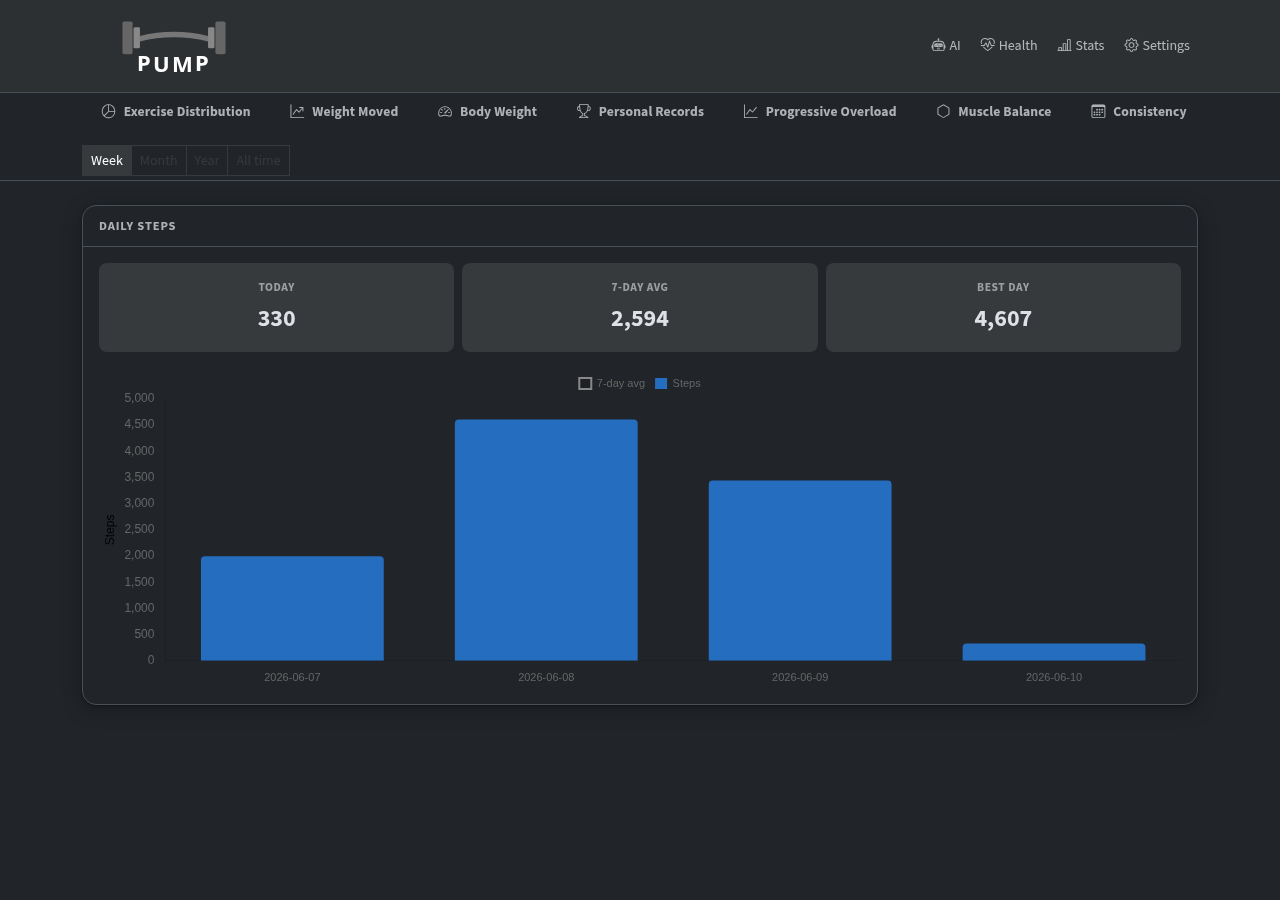
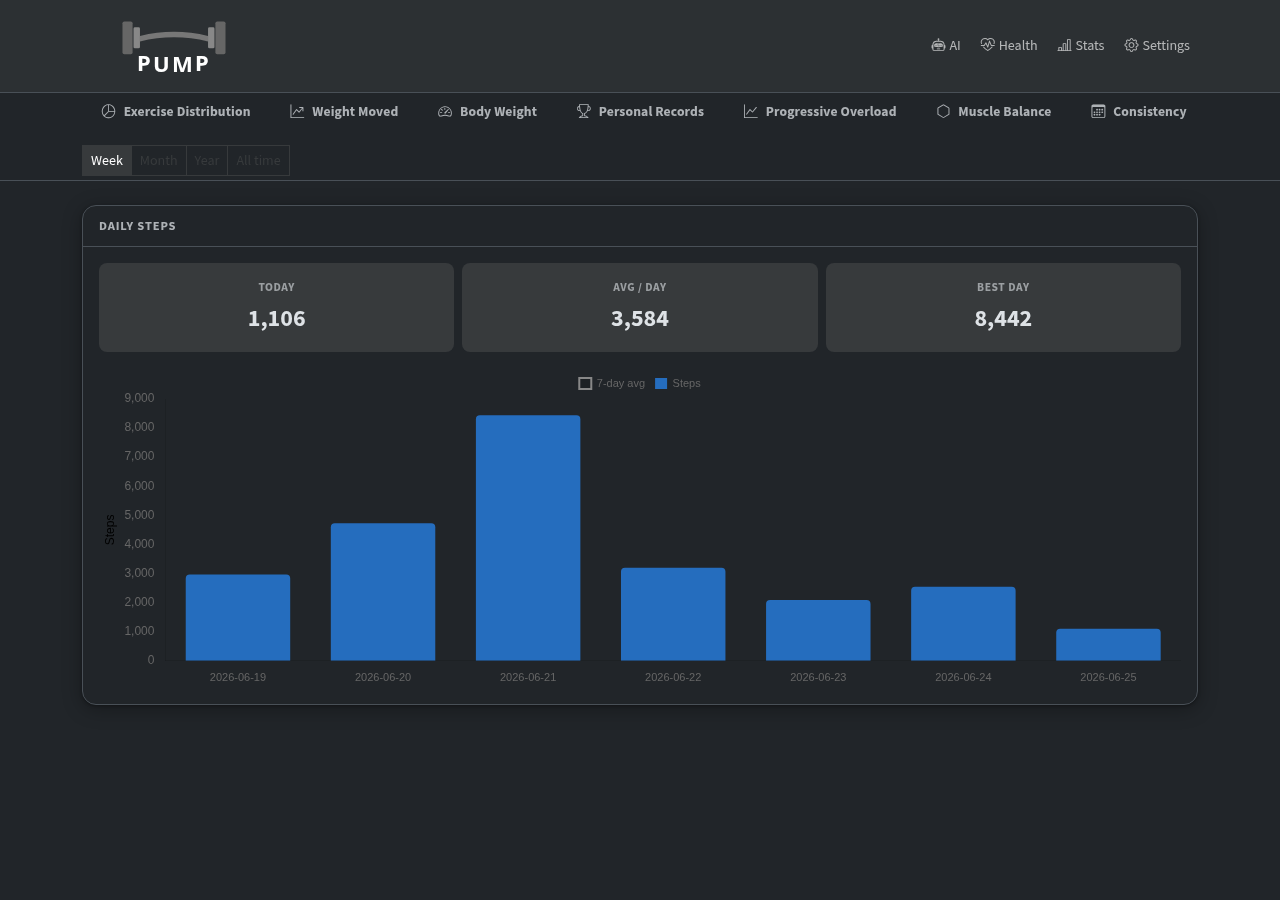
fix(stats): period-aware steps/sleep tiles, sleep hover totals, live Today button
The Stats wearable tiles for Steps and Sleep showed fixed windows that
ignored the selected period: steps "7-day avg" and sleep "7-day avg" /
"Deep (last)" never changed when switching Week/Month/Year/All-time even
though the charts did.

- Steps: "Avg / day" and "Best day" now compute over the selected period.
- Sleep: "Avg / night" and "Deep" (total deep ÷ total sleep) now compute
  over the selected period.
- Sleep chart hover now uses index mode: hovering a night shows every
  stage (Deep/Light/REM/Awake) plus a "Total sleep" footer.
- Relabel tiles accordingly (7-day avg → Avg / day, Avg / night; Deep
  (last) → Deep).

Also fix the main page "Today" button: goToToday() used
window._serverDate, which is rendered server-side at page load, so a
phone left open across midnight sent "Today" to yesterday. It now
computes the live device date (en-CA YYYY-MM-DD).

Regenerated assets/screenshot-stats-steps.png and -sleep.png for the new
labels. Frontend-only; no schema change.

diff --git a/internal/web/public/js/health-charts.js b/internal/web/public/js/health-charts.js
@@ -88,11 +88,13 @@ function renderStepsTab(period) {
     const today = window._serverDate;
     const todayRow = all.find(d => d.Date === today);
     hcSetText('steps-today', todayRow ? Math.round(todayRow.Value).toLocaleString() : '0');
-    const last7 = hcLast(all, 7).map(d => d.Value);
-    hcSetText('steps-avg', last7.length ? Math.round(hcMean(last7)).toLocaleString() : '–');
-    hcSetText('steps-best', all.length ? Math.round(Math.max(...all.map(d => d.Value))).toLocaleString() : '–');
 
     const data = hcByPeriod(all, period);
+    // Avg / best track the selected period, matching the chart below.
+    const vals0 = data.map(d => d.Value);
+    hcSetText('steps-avg', vals0.length ? Math.round(hcMean(vals0)).toLocaleString() : '–');
+    hcSetText('steps-best', vals0.length ? Math.round(Math.max(...vals0)).toLocaleString() : '–');
+
     const canvas = document.getElementById('steps-chart');
     const noData = document.getElementById('steps-no-data');
     if (!data.length) { if (canvas) canvas.style.display = 'none'; if (noData) noData.style.display = 'block'; _stepsChart = hcDestroy(_stepsChart); return; }
@@ -153,12 +155,15 @@ function renderSleepTab(period) {
     const all = hcData('Sleep');
     const last = all.length ? all[all.length - 1] : null;
     hcSetText('sleep-last', last ? hcFmtDur(last.Minutes) : '–');
-    const last7 = hcLast(all, 7).map(d => d.Minutes);
-    hcSetText('sleep-avg', last7.length ? hcFmtDur(hcMean(last7)) : '–');
-    const deepPct = last && last.Minutes > 0 ? Math.round(100 * last.Deep / last.Minutes) : null;
-    hcSetText('sleep-deep', deepPct != null && deepPct > 0 ? deepPct + '%' : '–');
 
     const data = hcByPeriod(all, period);
+    // Avg nightly sleep and deep-share track the selected period.
+    hcSetText('sleep-avg', data.length ? hcFmtDur(hcMean(data.map(d => d.Minutes))) : '–');
+    const periodMin = data.reduce((a, d) => a + d.Minutes, 0);
+    const periodDeep = data.reduce((a, d) => a + d.Deep, 0);
+    const deepPct = periodMin > 0 ? Math.round(100 * periodDeep / periodMin) : null;
+    hcSetText('sleep-deep', deepPct != null && deepPct > 0 ? deepPct + '%' : '–');
+
     const canvas = document.getElementById('sleep-chart');
     const noData = document.getElementById('sleep-no-data');
     if (!data.length) { if (canvas) canvas.style.display = 'none'; if (noData) noData.style.display = 'block'; _sleepChart = hcDestroy(_sleepChart); return; }
@@ -184,7 +189,22 @@ function renderSleepTab(period) {
         options: {
             responsive: true,
             scales: { x: Object.assign({ stacked: true }, hcAxisOpts.x), y: { stacked: true, beginAtZero: true, grid: { display: false }, title: { display: true, text: 'Hours', font: { size: 12 }, color: 'var(--bs-secondary-color)' }, ticks: { callback(v) { return v + 'h'; } } } },
-            plugins: { legend: { display: hasStages, position: 'top', labels: { boxWidth: 12, font: { size: 11 } } }, tooltip: { callbacks: { label(c) { return c.dataset.label + ': ' + hcFmtDur(c.raw * 60); } } } }
+            plugins: {
+                legend: { display: hasStages, position: 'top', labels: { boxWidth: 12, font: { size: 11 } } },
+                // Hovering a bar shows every stage at that night plus the total.
+                tooltip: {
+                    mode: 'index', intersect: false,
+                    callbacks: {
+                        title(items) { return items.length ? items[0].label : ''; },
+                        label(c) { return c.dataset.label + ': ' + hcFmtDur(c.raw * 60); },
+                        footer(items) {
+                            if (!items.length) return '';
+                            const n = data[items[0].dataIndex];
+                            return n ? 'Total sleep: ' + hcFmtDur(n.Minutes) : '';
+                        }
+                    }
+                }
+            }
         }
     });
 }

diff --git a/internal/web/templates/stats.html b/internal/web/templates/stats.html
@@ -376,7 +376,7 @@
                 <div class="panel-body">
                   <div class="row g-2 mb-3">
                     <div class="col-4"><div class="p-3 rounded-3 bg-body-secondary text-center"><div class="stat-label">Today</div><div id="steps-today" class="fw-bold fs-4">–</div></div></div>
-                    <div class="col-4"><div class="p-3 rounded-3 bg-body-secondary text-center"><div class="stat-label">7-day avg</div><div id="steps-avg" class="fw-bold fs-4">–</div></div></div>
+                    <div class="col-4"><div class="p-3 rounded-3 bg-body-secondary text-center"><div class="stat-label">Avg / day</div><div id="steps-avg" class="fw-bold fs-4">–</div></div></div>
                     <div class="col-4"><div class="p-3 rounded-3 bg-body-secondary text-center"><div class="stat-label">Best day</div><div id="steps-best" class="fw-bold fs-4">–</div></div></div>
                   </div>
                   <canvas id="steps-chart" style="max-height:320px;"></canvas>
@@ -426,8 +426,8 @@
                 <div class="panel-body">
                   <div class="row g-2 mb-3">
                     <div class="col-4"><div class="p-3 rounded-3 bg-body-secondary text-center"><div class="stat-label">Last night</div><div id="sleep-last" class="fw-bold fs-4">–</div></div></div>
-                    <div class="col-4"><div class="p-3 rounded-3 bg-body-secondary text-center"><div class="stat-label">7-day avg</div><div id="sleep-avg" class="fw-bold fs-4">–</div></div></div>
-                    <div class="col-4"><div class="p-3 rounded-3 bg-body-secondary text-center"><div class="stat-label">Deep (last)</div><div id="sleep-deep" class="fw-bold fs-4">–</div></div></div>
+                    <div class="col-4"><div class="p-3 rounded-3 bg-body-secondary text-center"><div class="stat-label">Avg / night</div><div id="sleep-avg" class="fw-bold fs-4">–</div></div></div>
+                    <div class="col-4"><div class="p-3 rounded-3 bg-body-secondary text-center"><div class="stat-label">Deep</div><div id="sleep-deep" class="fw-bold fs-4">–</div></div></div>
                   </div>
                   <canvas id="sleep-chart" style="max-height:320px;"></canvas>
                   <p class="text-center text-body-secondary mt-3 mb-0" id="sleep-no-data" style="display:none;">No sleep data in this period yet.</p>

diff --git a/internal/web/public/js/index.js b/internal/web/public/js/index.js
@@ -638,7 +638,10 @@ function setFormDate(sets) {
 }
 
 function goToToday() {
-    var date = window._serverDate || new Date().toLocaleDateString('en-CA');
+    // Compute the live local date rather than window._serverDate: that value is
+    // rendered server-side at page load, so a phone left open across midnight
+    // would otherwise send "Today" to yesterday. en-CA gives YYYY-MM-DD.
+    var date = new Date().toLocaleDateString('en-CA');
     setFormContent(window._allSets, date);
 }
 
